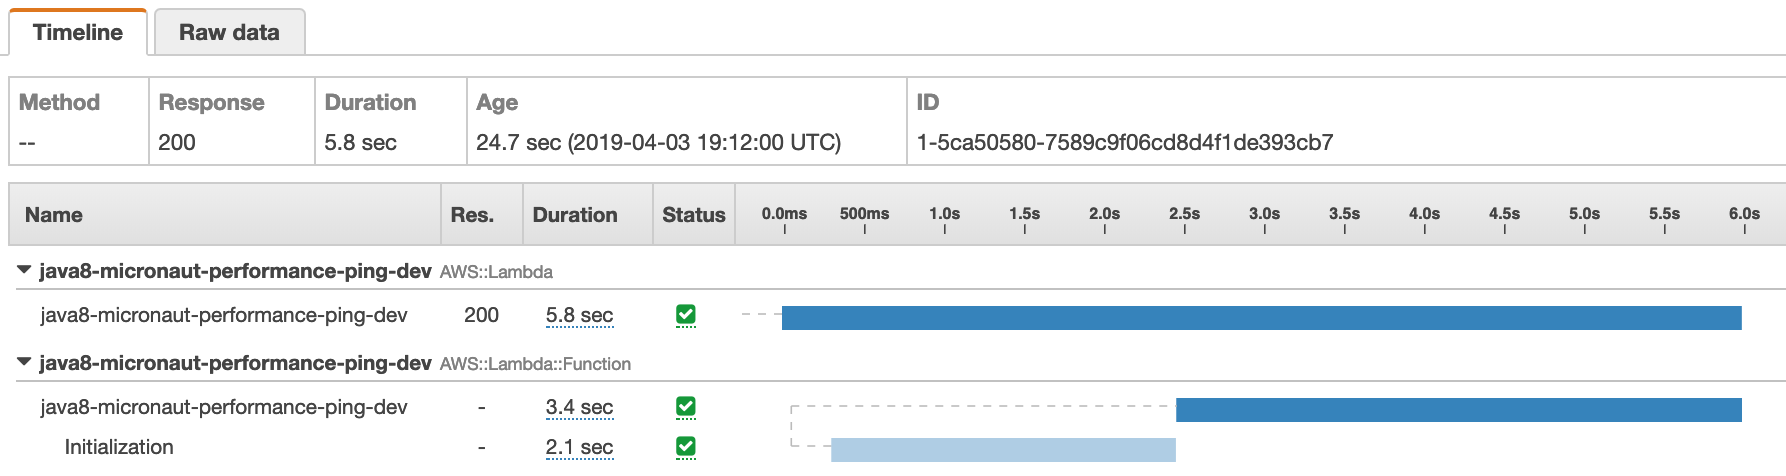
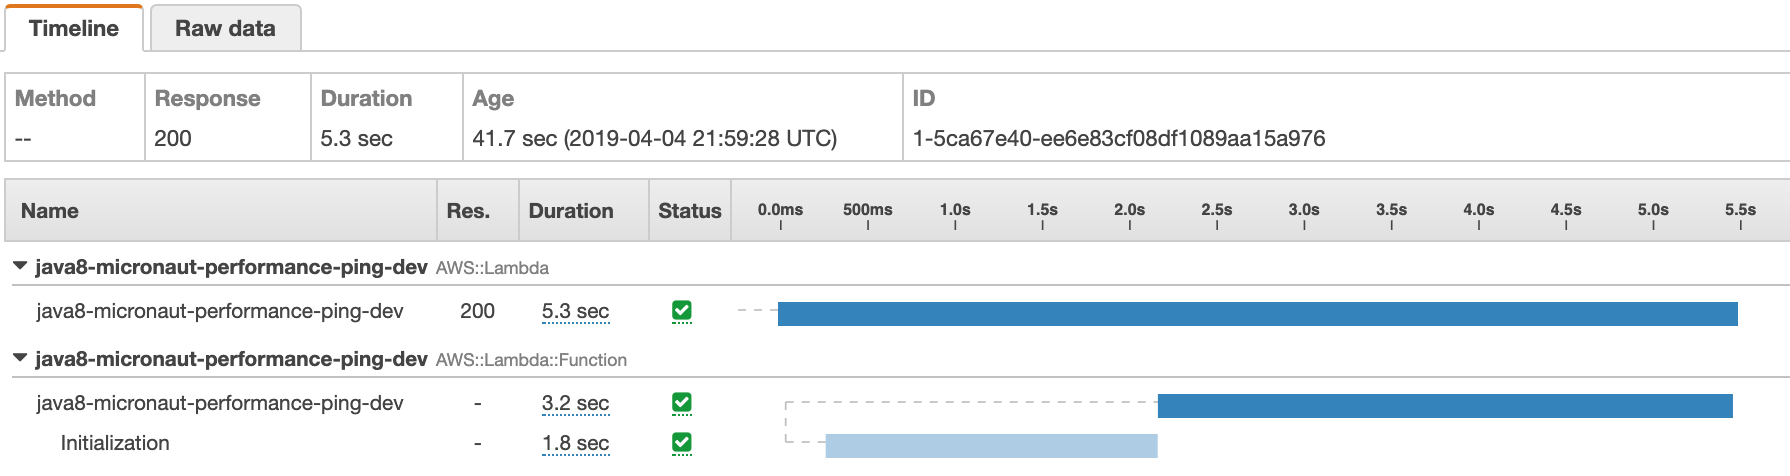
Improve Micronaut startup

diff --git a/README.md b/README.md
@@ -2,7 +2,7 @@
 
 - Java8 minimal: **828 ms**
 - Java8 full: (Dagger+Gson+DynamoDB): **3.9 sec**
-- Java8 Micronaut 1.1.0-RC2 (DynamoDB): **5.8 sec**
+- Java8 Micronaut 1.1.0-RC2 (DynamoDB): **5.3 sec**
 
 Below you can see the X-Ray for each example.  
 *Initialization (light blue)*: This is code initialization (Static blocks + Constructor)  
@@ -40,5 +40,5 @@ REPORT Duration: 2170.02 ms  Billed Duration: 2200 ms  Memory Size: 1024 MB  Max
 
 **_CloudWatch_**
 ```
-REPORT Duration: 3399.12 ms  Billed Duration: 3400 ms  Memory Size: 1024 MB  Max Memory Used: 175 MB	
+REPORT Duration: 3210.99 ms  Billed Duration: 3300 ms  Memory Size: 1024 MB  Max Memory Used: 172 MB	
 ```
